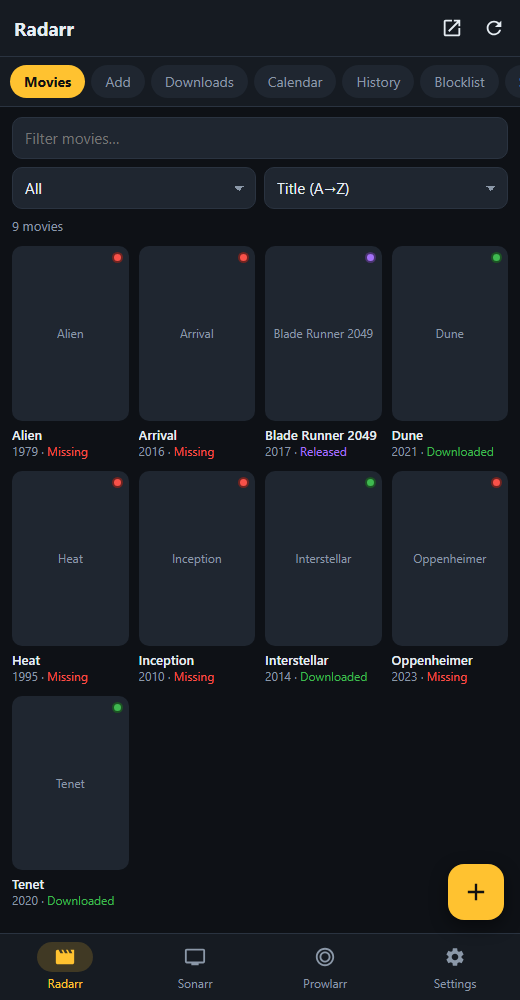
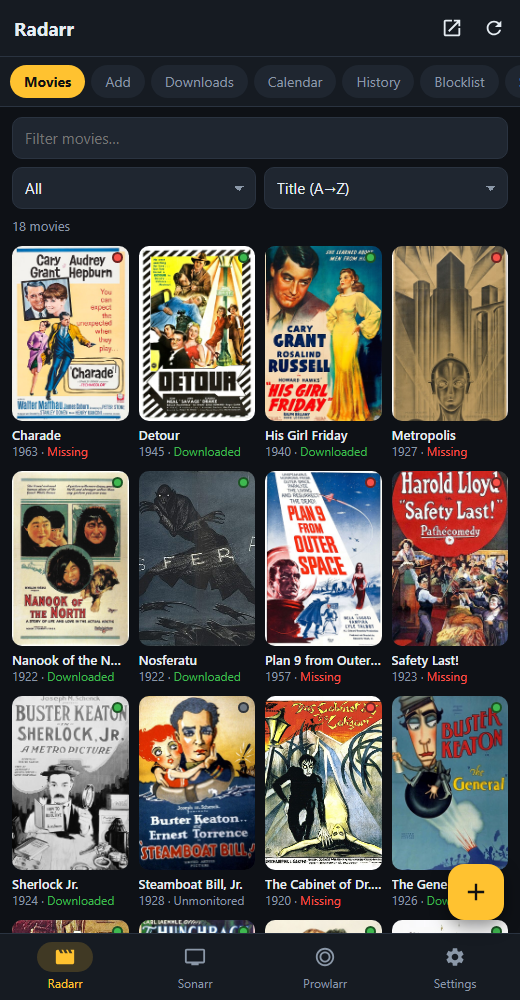
README: screenshots with public-domain posters

diff --git a/README.md b/README.md
@@ -11,6 +11,8 @@ The app is available in **English** and **French**. It follows your phone's lang
   <img src="docs/screenshots/interactive-search.png" width="200" alt="Interactive search">
 </p>
 
+<sub>Screenshots use demo data with public-domain films and posters from Wikimedia Commons.</sub>
+
 ## Features
 
 **Radarr**
